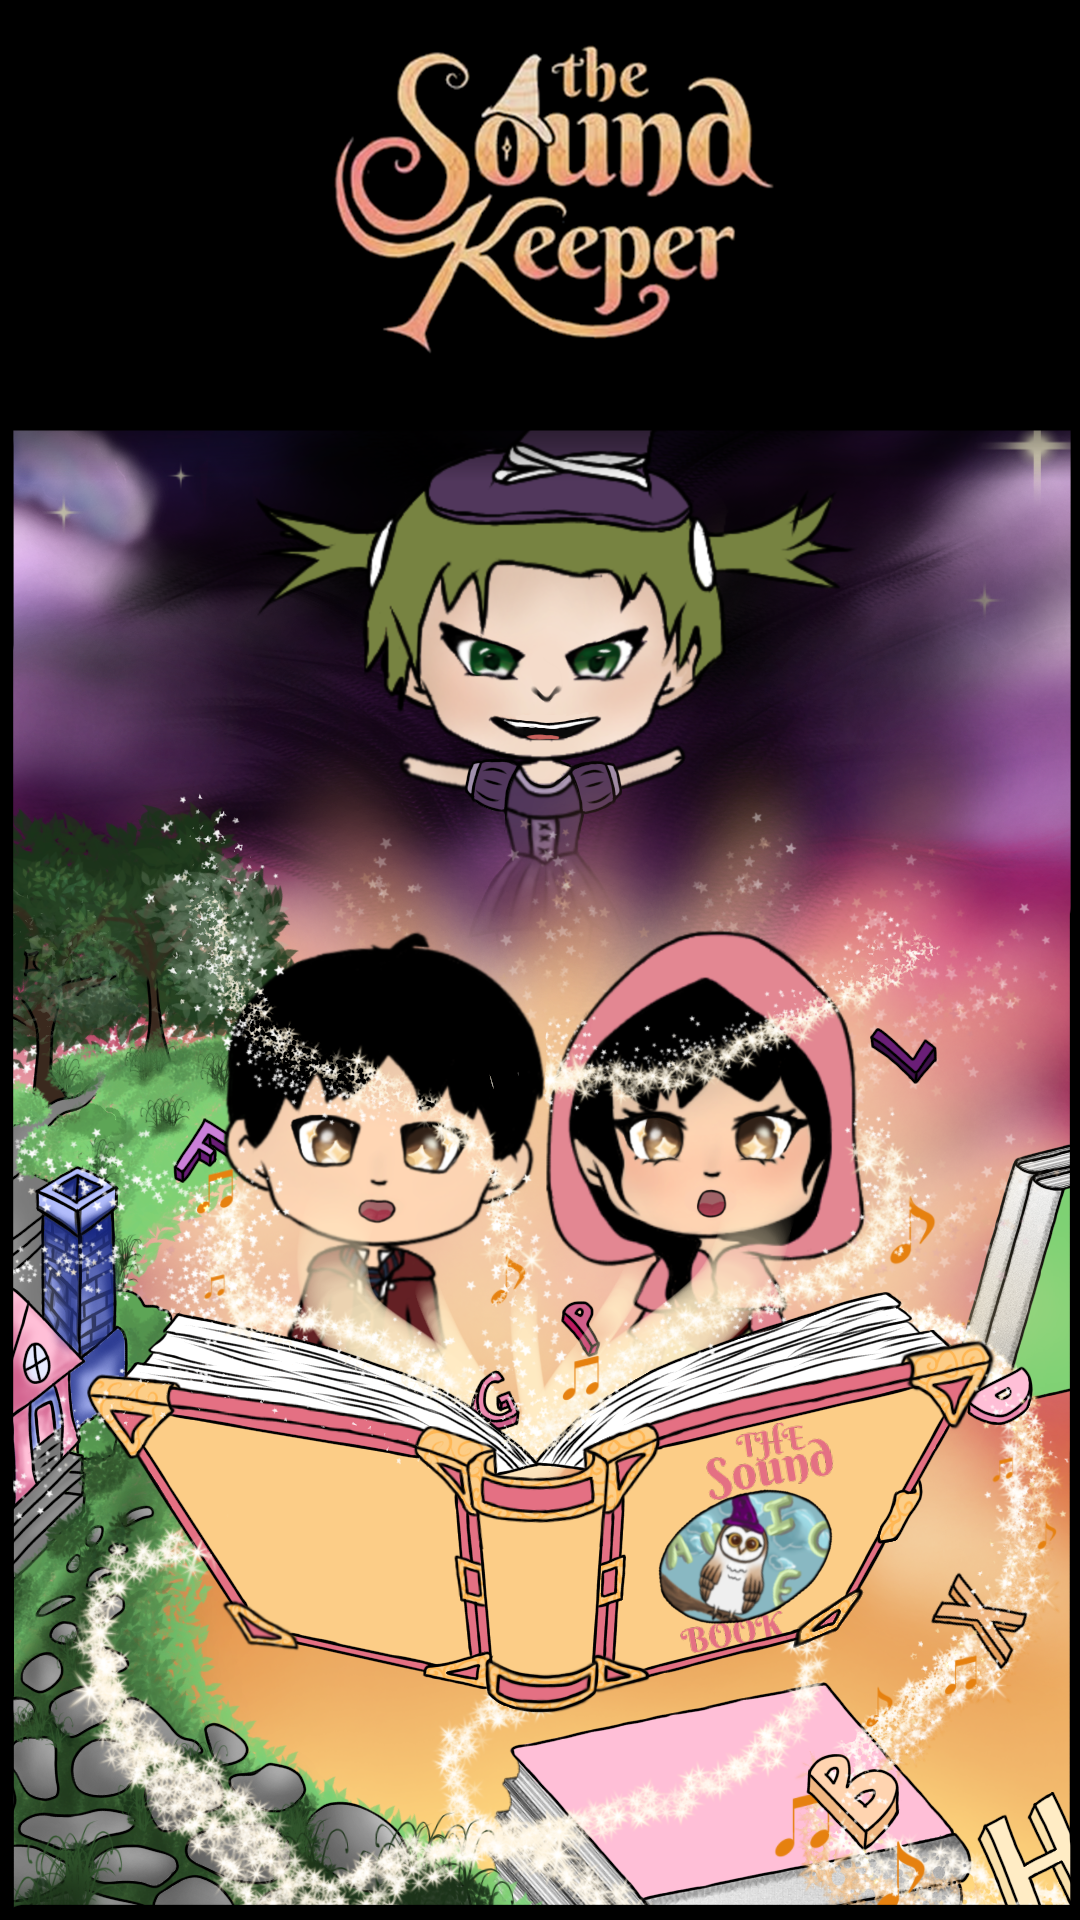
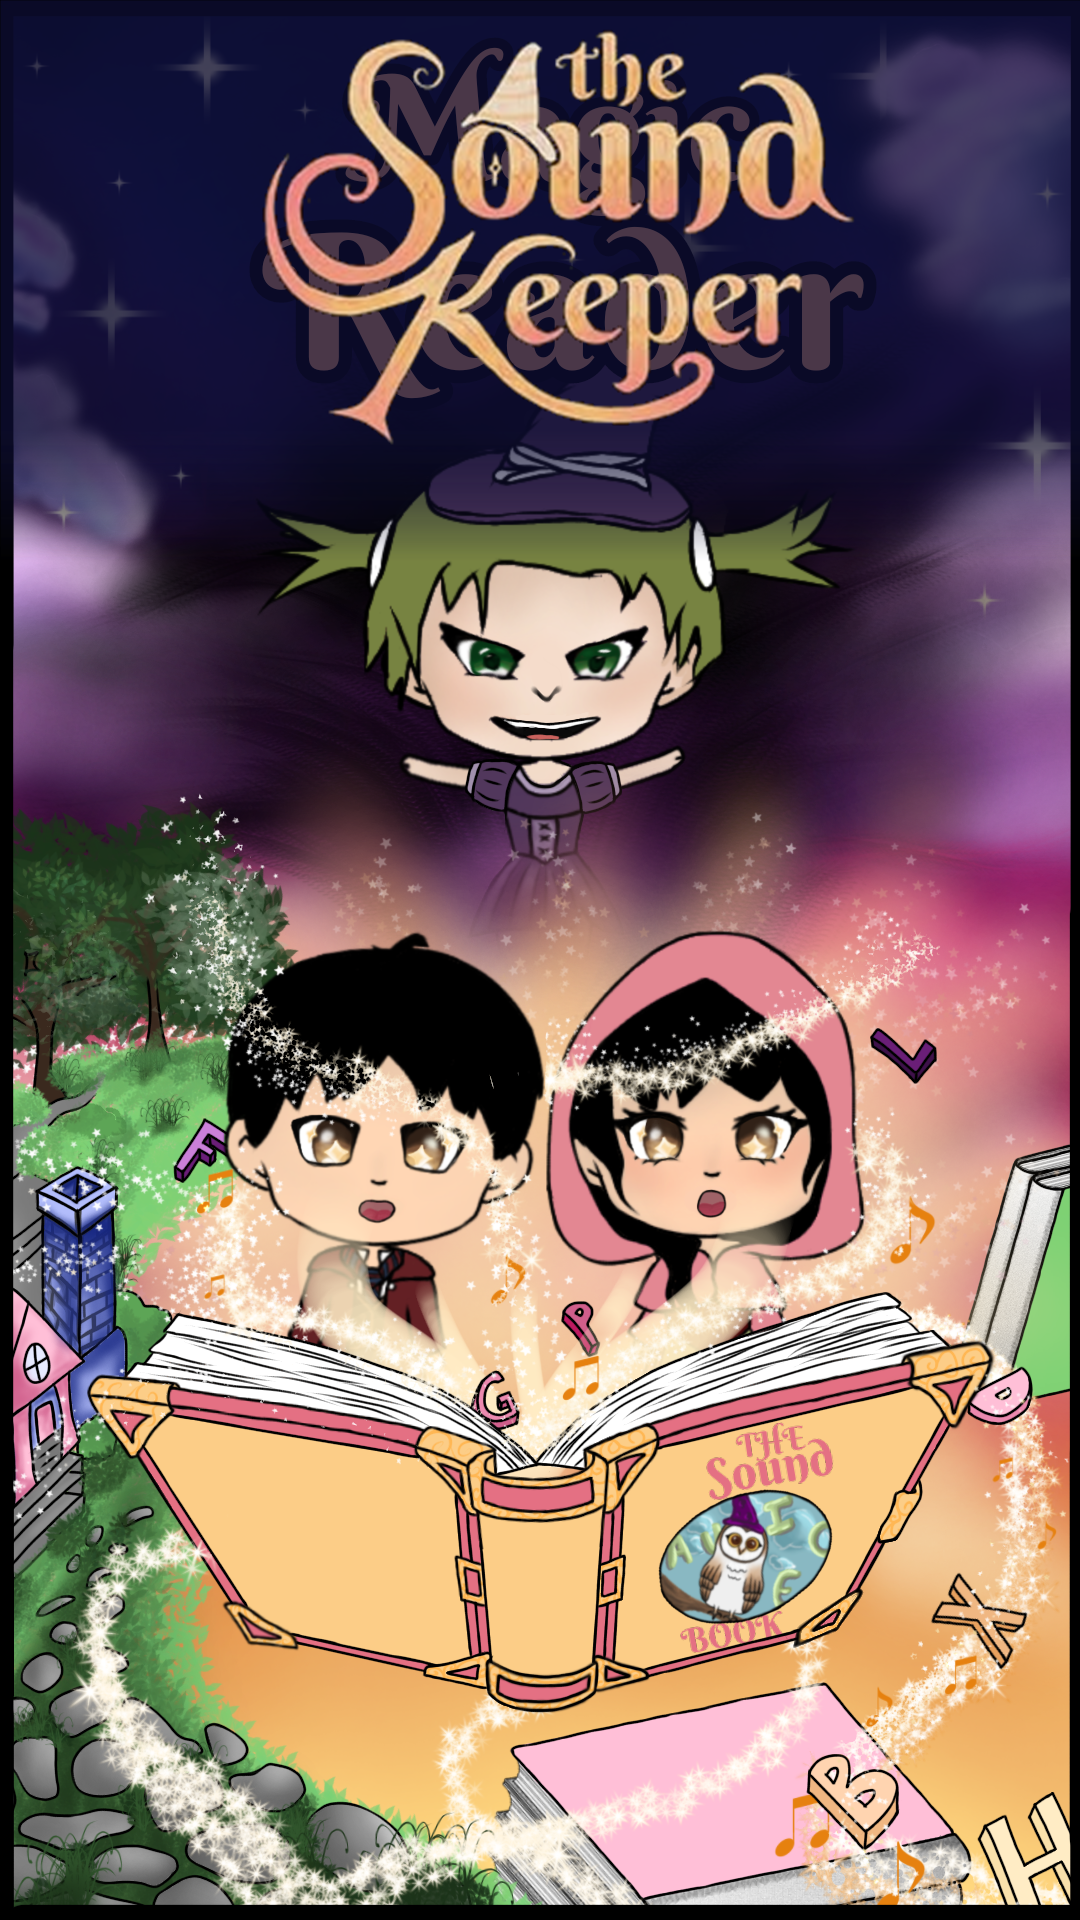
Remove black border from Sound Keeper poster

Changed region(s): [[0.0, 0.0, 1.0, 0.2812]]

diff --git a/src/pages/game/Download.jsx b/src/pages/game/Download.jsx
@@ -14,7 +14,7 @@ function Download() {
       <div style={{ marginTop: '50px', display: 'flex', flexDirection: 'column', alignItems: 'center' }}>
         
         {/* Poster Image */}
-        <div style={{ width: '100%', maxWidth: '400px', marginBottom: '30px', border: '5px solid #000', borderRadius: '5px', overflow: 'hidden', boxShadow: '0 10px 30px rgba(0,0,0,0.5)' }}>
+        <div style={{ width: '100%', maxWidth: '400px', marginBottom: '30px', borderRadius: '5px', overflow: 'hidden', boxShadow: '0 10px 30px rgba(0,0,0,0.5)' }}>
           <img 
             src="/images/poster.png" 
             alt="The Sound Keeper Game Poster" 
